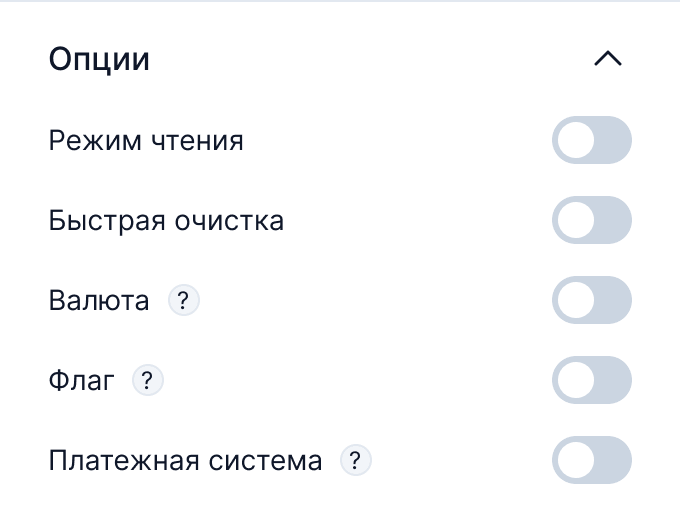
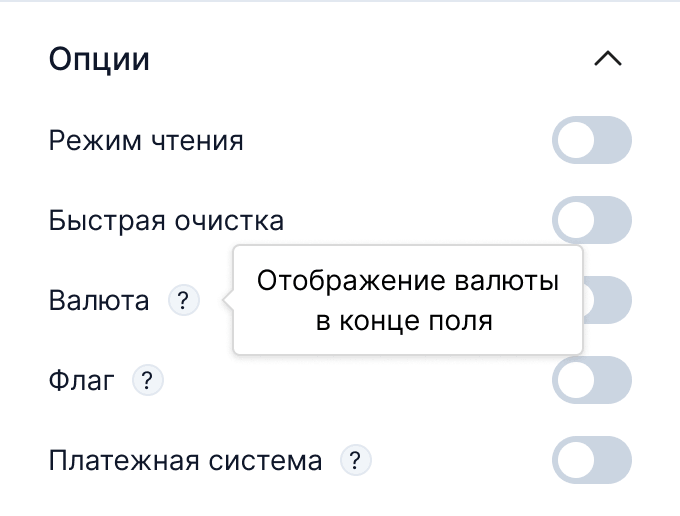
editing input

Changed region(s): [[0.3706, 0.5271, 0.8647, 0.6512], [0.3397, 0.6822, 0.8647, 0.7132], [0.3397, 0.4651, 0.8647, 0.4961]]

diff --git a/src/pages/input/input.jsx b/src/pages/input/input.jsx
@@ -100,11 +100,13 @@ export const InputPage = () => {
                             <p className={`${styles.text} ${styles.marginSmall}`}>Для настройки опций был выбран toggle, так как позволяет пользователю сразу увидеть текущее состояние настройки и изменить его одним действием.</p>
                             <p className={styles.text}>Для понимания пользователей о значении опции были добавлены тултипы с описанием.</p>
                         </div>
-                        <div className={styles.list}>
-                            <img className={styles.img} src={option} alt="Опции" />
-                            <img className={styles.img} src={optionSystem} alt="Хинт платежной системы" />
-                            <img className={styles.img} src={optionFlag} alt="Хинт флаг" />
-                            <img className={styles.img} src={optionCurrency} alt="Хинт валюты" />
+                        <div className={`${styles.imageBlock} ${styles.big}`}>
+                            <div className={styles.list}>
+                                <img className={styles.img} src={option} alt="Опции" />
+                                <img className={styles.img} src={optionSystem} alt="Хинт платежной системы" />
+                                <img className={styles.img} src={optionFlag} alt="Хинт флаг" />
+                                <img className={styles.img} src={optionCurrency} alt="Хинт валюты" />
+                            </div>
                         </div>
                     </div>
                 </div>
@@ -113,12 +115,12 @@ export const InputPage = () => {
                         <div className={styles.header}>
                             <p className={styles.headerTitle}>РАЗДЕЛ ПОДСКАЗКИ</p>
                         </div>
-                        <div className={styles.rowSmall}>
+                        <div className={styles.col2}>
                             <div className={styles.block}>
                                 <p className={`${styles.text} ${styles.marginSmall}`}>Для настройки включения подсказок у контрола был также выбран toggle. При положении on появляется textarea для ввода текста.</p>
                                 <p className={styles.text}>Подсказки настраиваются для плейсхолдера и хинта у тултипа.</p>
-                            </div>
-                            <div className={styles.block}>
+                            </div>                        
+                            <div className={`${styles.imageBlock} ${styles.medium}`}>
                                 <div className={styles.rowSmall}>
                                     <img className={styles.img} src={hint} alt="Настройки валидации" />
                                     <img className={styles.img} src={hintFulled} alt="Настройки валидации" />
@@ -134,58 +136,94 @@ export const InputPage = () => {
                         </div>
                         <div className={styles.col2}>
                             <div className={styles.block}>
-                                <p className={styles.text}>Самая важная настройка контрола - маска. По маске происходит валидация введенного значения.</p>
+                                <div>
+                                    <p className={styles.subtitle}>ДОБАВЛЕНИЕ МАСКИ</p>
+                                </div>
+                                <p className={styles.text}>Маска - ключевая настройка контрола: по ней определяется формат и валидность введённого значения.</p>
                             </div>
-                            <img className={`${styles.img} ${styles.marginSmall}`} src={mask} alt="Настройка маски" />
+                            <div className={styles.imageBlock}>
+                                <img className={styles.img} src={mask} alt="Настройка маски" />
+                            </div>
                         </div>
                         <div className={styles.col2}>
                             <div className={styles.block}>
-                                <p className={styles.text}>При нажатии на кнопку перед пользователем появляется модальное окно с необходимыми для настройки полями.</p>
+                                <div>
+                                    <p className={styles.subtitle}>НАСТРОЙКА ПАРАМЕТРОВ</p>
+                                </div>
+                                <p className={`${styles.text} ${styles.marginSmall}`}>При нажатии «Добавить маску» открывается модальное окно с необходимыми параметрами для настройки.</p>
+                                <p className={styles.text}>Поскольку значения задаются вручную и могут иметь произвольный формат, для их ввода выбран текстовый инпут.</p>
                             </div>
-                            <img className={`${styles.img} ${styles.marginSmall}`} src={modal} alt="Модальное окно настройки" />
+                            <div className={styles.imageBlock}>
+                                <img className={styles.img} src={modal} alt="Модальное окно настройки" />
+                            </div>
                         </div>
                         <div className={styles.col2}>
                             <div className={styles.block}>
-                                <p className={styles.text}>Для удобства пользователей были добавлены хинты с подсказками, так как настройка сложная и могут возникнуть трудности.</p>
+                                <div>
+                                    <p className={styles.subtitle}>ПОДСКАЗКИ</p>
+                                </div>
+                                <p className={styles.text}>Настройка маски содержит несколько параметров и может быть сложной для пользователя, поэтому для ключевых полей добавлены контекстные подсказки.</p>
                             </div>
-                            <img className={`${styles.img} ${styles.marginSmall}`} src={hintModal} alt="Хинты для настройки маски" />
+                            <div className={styles.imageBlock}>
+                                <img className={styles.img} src={hintModal} alt="Хинты для настройки маски" />
+                            </div>
                         </div>
                         <div className={styles.col2}>
                             <div className={styles.block}>
-                                <p className={styles.text}>При нажатии на кнопку "Загрузить изображение" появляется модальное окно для настройки изображения, которое будет выводиться в контроле.</p>
+                                <div>
+                                    <p className={styles.subtitle}>ВЫБОР ИЗОБРАЖЕНИЯ</p>
+                                </div>
+                                <p className={styles.text}>Для настройки изображения используется отдельное модальное окно, которое открывается по нажатию «Загрузить изображение».</p>
                             </div>
-                            <img className={`${styles.img} ${styles.marginSmall}`} src={imageModal} alt="Настройка изображения" />
+                            <div className={styles.imageBlock}>
+                                <img className={styles.img}  src={imageModal} alt="Настройка изображения" />
+                            </div>
                         </div>
                         <div className={styles.col2}>
                             <div className={styles.block}>
-                                <p className={`${styles.text} ${styles.marginSmall}`}>Значения в контролы вводятся вручную, поэтому был выбран текстовый инпут.</p>
-                                <p className={styles.text}>Маски могут быть любыми, в зависимости от типа платежной системы или номера счета, требование от банка было, что корректность введенных значений на совести пользователя. Накакую дополнительную валидацию для этого не добавляли.</p>
+                                <div>
+                                    <p className={styles.subtitle}>ВВОД ЗНАЧЕНИЙ</p>
+                                </div>
+                                <p className={`${styles.text} ${styles.marginSmall}`}>Маски могут отличаться в зависимости от типа платёжной системы или номера счёта.</p>
+                                <p className={styles.text}>По требованиям банка дополнительная валидация маски не выполняется — корректность введённого значения остаётся на стороне пользователя.</p>
                             </div>
-                            <img className={`${styles.img} ${styles.marginSmall}`} src={filledModal} alt="Заполненное модальное окно" />
+                            <div className={styles.imageBlock}>
+                                <img className={styles.img} src={filledModal} alt="Заполненное модальное окно" />
+                            </div>
                         </div>
                         <div className={styles.col2}>
                             <div className={styles.block}>
-                                <p className={`${styles.text} ${styles.marginSmall}`}>Так как масок может быть несколько, при сохранении модального окна с настройками, формируется список из сохраненных масок.</p>
-                                <p className={styles.text}>В плашке сохраненной маске содержится информация о названии маски и на какие начальные значения она работает.</p>
+                                <div>
+                                    <p className={styles.subtitle}>СОХРАНЕННАЯ МАСКА</p>
+                                </div>
+                                <p className={`${styles.text} ${styles.marginSmall}`}>Поскольку для одного контрола может быть настроено несколько масок, после сохранения они отображаются в виде списка.</p>
+                                <p className={styles.text}>В каждой маске пользователь видит её название и начальные значения, для которых она применяется.</p>
                             </div>
-                            <img className={styles.img} src={selectedMask} alt="Сохраненная маска" />
+                            <div className={styles.imageBlock}>
+                                <img className={styles.img} src={selectedMask} alt="Сохраненная маска" />
+                            </div>
                         </div>
                     </div>
                 </div>
-                <div className={styles.rowSmall}>
-                    <div className={`${styles.content} ${styles.margin}`}>
+                 <div className={styles.margin}>
+                    <div className={styles.content}>
                         <div className={styles.header}>
                             <p className={styles.headerTitle}>{t('input.validation')}</p>
                         </div>
-                        <div className={styles.imgBlock}>
-                            <img src={settings} alt="Настройки валидации" />
+                        <div className={styles.col3}>
+                            <div className={styles.imageBlock}>
+                                <img src={settings} alt="Настройки валидации" />
+                            </div>
+                            <div className={styles.blockRight}>
+                                <p className={`${styles.text} ${styles.marginSmall}`}>Выявила пробел в требованиях: не был определён сценарий обработки номера карты или счёта, если для него не задана маска. Чтобы контрол мог работать с такими форматами, добавила настройку минимальной и максимальной длины значения.</p>
+                                <p className={styles.text}>Это дало возможность гибко ограничивать допустимый формат ввода без создания отдельной маски. Например, для номера карты можно задать стандартный диапазон 13–19 символов, а для сценария, где поддерживаются только карты Visa, ограничить значение 16 символами.</p>
+                            </div>
                         </div>
                     </div>
-                    <p className={`${styles.block} ${styles.margin} ${styles.text}`}>{t('input.textValidator')}</p>
-                </div>
+                 </div>
             </div>
 
-            <p className={`${styles.block} ${styles.margin} ${styles.text}`}>{t('input.text')}</p>
+            <p className={`${styles.block} ${styles.text}`}>{t('input.text')}</p>
             <div className={styles.content}>
                 <div className={styles.header}>
                     <p className={styles.headerTitle}>{t('input.mobile')}</p>

diff --git a/src/pages/input/input.module.css b/src/pages/input/input.module.css
@@ -2,6 +2,10 @@
     padding: 32px;
 }
 
+.blockRight {
+    padding: 32px 32px 32px 0;
+}
+
 .row {
     display: grid;
     grid-template-columns: 1fr 1fr;
@@ -86,6 +90,23 @@
     object-position: top;
 }
 
+.imageBlock {
+    background-color: var(--border);
+    padding: 32px 20%;
+    margin: 32px;
+    display: flex;
+    justify-content: center;
+
+    &.big {
+        padding: 32px;
+        margin-top: 0;
+    }
+
+    &.medium {
+        padding: 32px;
+    }
+}
+
 .text {
     color: var(--text-secondary);
 }
@@ -150,5 +171,16 @@ th:first-child {
 
 .col2 {
     display: grid;
+    grid-template-columns: 1fr 2fr;
+}
+
+.col3 {
+    display: grid;
     grid-template-columns: 2fr 1fr;
+}
+
+.subtitle {
+    padding-bottom: 16px;
+    border-bottom: 1px solid var(--border);
+    margin-bottom: 24px;
 }
